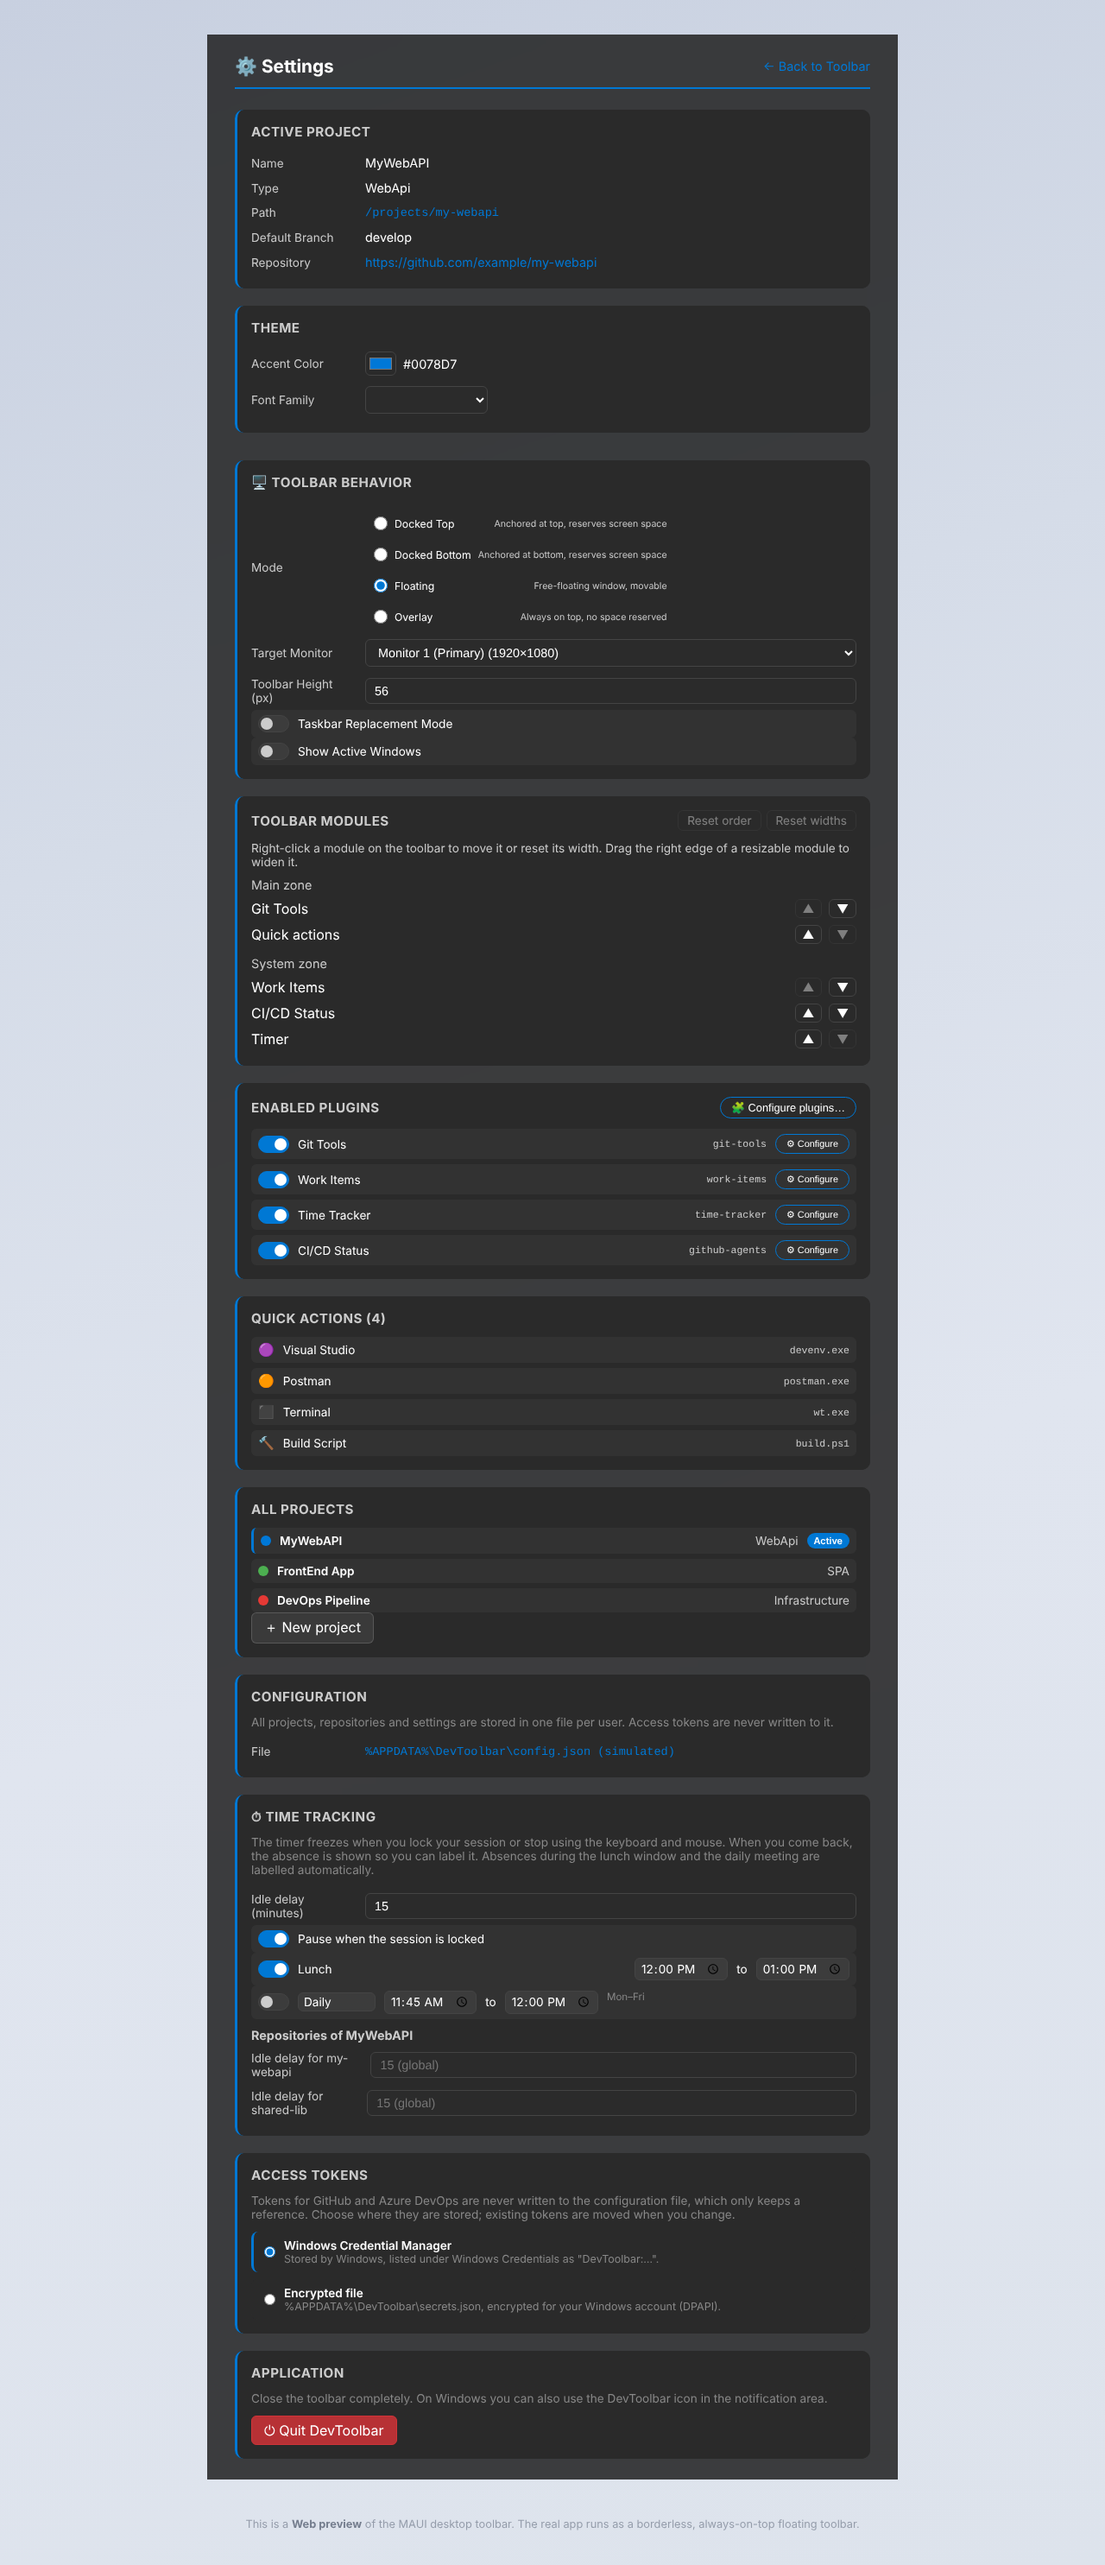
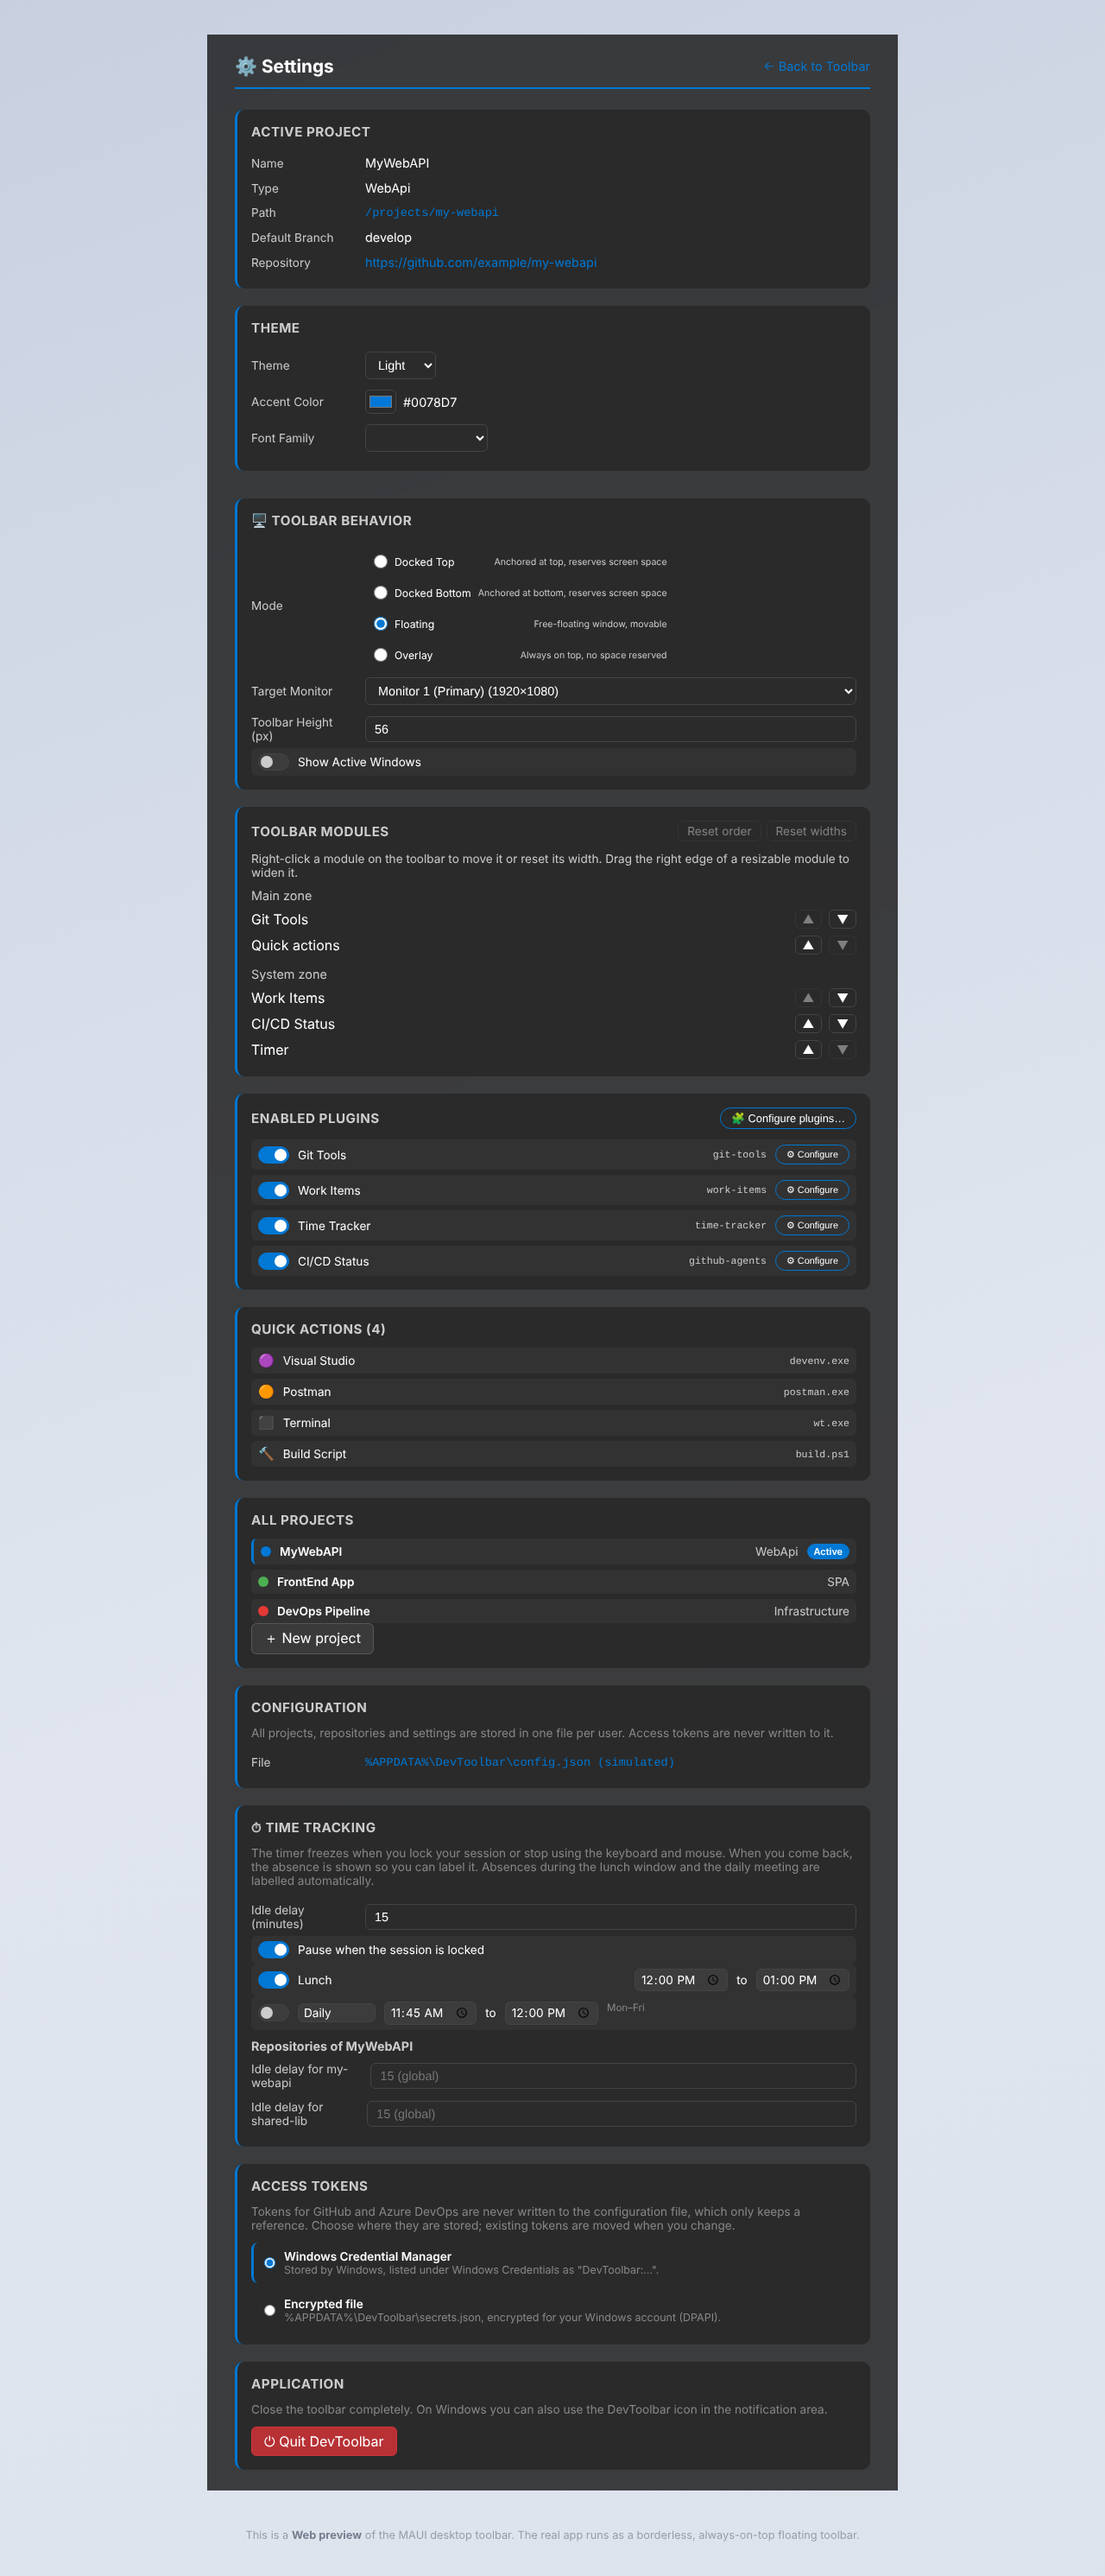
refactor: remove the taskbar replacement switch (US8.5)
Benoit chose to drop the switch: it was saved but never did anything. Only
"Show active windows" stays. An old `taskbarReplacementMode` value in
config.json is ignored and dropped on the next save (unit test added).

Claude-Session: https://claude.ai/code/session_011HCNSyAvZFc3rQ9ov8MPyM

diff --git a/tests/DevToolbar.Tests.Unit/Infrastructure/UserConfigurationStoreTests.cs b/tests/DevToolbar.Tests.Unit/Infrastructure/UserConfigurationStoreTests.cs
@@ -33,6 +33,23 @@ public class UserConfigurationStoreTests
     }
 
     [Test]
+    public async Task RemovedTaskbarReplacementSetting_IsIgnored_AndDroppedOnSave()
+    {
+        // US8.5: "taskbarReplacementMode" was removed on 2026-11-04; files that still have it must load.
+        using var temp = new TempDirectory();
+        temp.Write("config.json", """
+            { "schemaVersion": 1, "settings": { "toolbarHeight": 64, "taskbarReplacementMode": true, "showActiveWindows": true }, "projects": [] }
+            """);
+
+        var store = new UserConfigurationStore(temp.Paths);
+        await store.UpdateAsync(c => c.Settings.ToolbarHeight = 70);
+
+        Assert.That(store.LoadProblem, Is.Null);
+        Assert.That(store.Current.Settings.ShowActiveWindows, Is.True);
+        Assert.That(File.ReadAllText(temp.Paths.ConfigFile), Does.Not.Contain("taskbarReplacementMode"));
+    }
+
+    [Test]
     public void LegacyFiles_AreMigrated_MergedIntoOneFile_AndBackedUp()
     {
         using var temp = new TempDirectory();

diff --git a/src/DevToolbar.Core/Models/GlobalSettings.cs b/src/DevToolbar.Core/Models/GlobalSettings.cs
@@ -21,7 +21,7 @@ public class GlobalSettings
     public int TargetMonitorIndex { get; set; } = 0;
 
     /// <summary>
-    /// Whether to show active window buttons in the toolbar (taskbar replacement mode).
+    /// Whether to show a button per open window in the toolbar (US8.5).
     /// </summary>
     [JsonPropertyName("showActiveWindows")]
     public bool ShowActiveWindows { get; set; } = false;
@@ -31,13 +31,6 @@ public class GlobalSettings
     /// </summary>
     [JsonPropertyName("toolbarHeight")]
     public int ToolbarHeight { get; set; } = 56;
-
-    /// <summary>
-    /// Whether the toolbar should act as a taskbar replacement on the target monitor.
-    /// When enabled, the toolbar occupies the taskbar position and can show open windows.
-    /// </summary>
-    [JsonPropertyName("taskbarReplacementMode")]
-    public bool TaskbarReplacementMode { get; set; } = false;
 
     /// <summary>
     /// Polling interval in milliseconds for refreshing the open windows list.

diff --git a/src/DevToolbar.Core/Models/WindowInfo.cs b/src/DevToolbar.Core/Models/WindowInfo.cs
@@ -2,7 +2,7 @@ namespace DevToolbar.Core.Models;
 
 /// <summary>
 /// Represents a visible window on the desktop.
-/// Used by the taskbar replacement feature to show open applications.
+/// Used by the active windows module (US8.5) to show open applications.
 /// </summary>
 public class WindowInfo
 {

diff --git a/src/DevToolbar.Core/Interfaces/IWindowService.cs b/src/DevToolbar.Core/Interfaces/IWindowService.cs
@@ -4,7 +4,7 @@ using DevToolbar.Core.Models;
 
 /// <summary>
 /// Service for listing open windows and activating them.
-/// Used by the taskbar replacement feature.
+/// Used by the active windows module (US8.5).
 /// </summary>
 public interface IWindowService
 {
